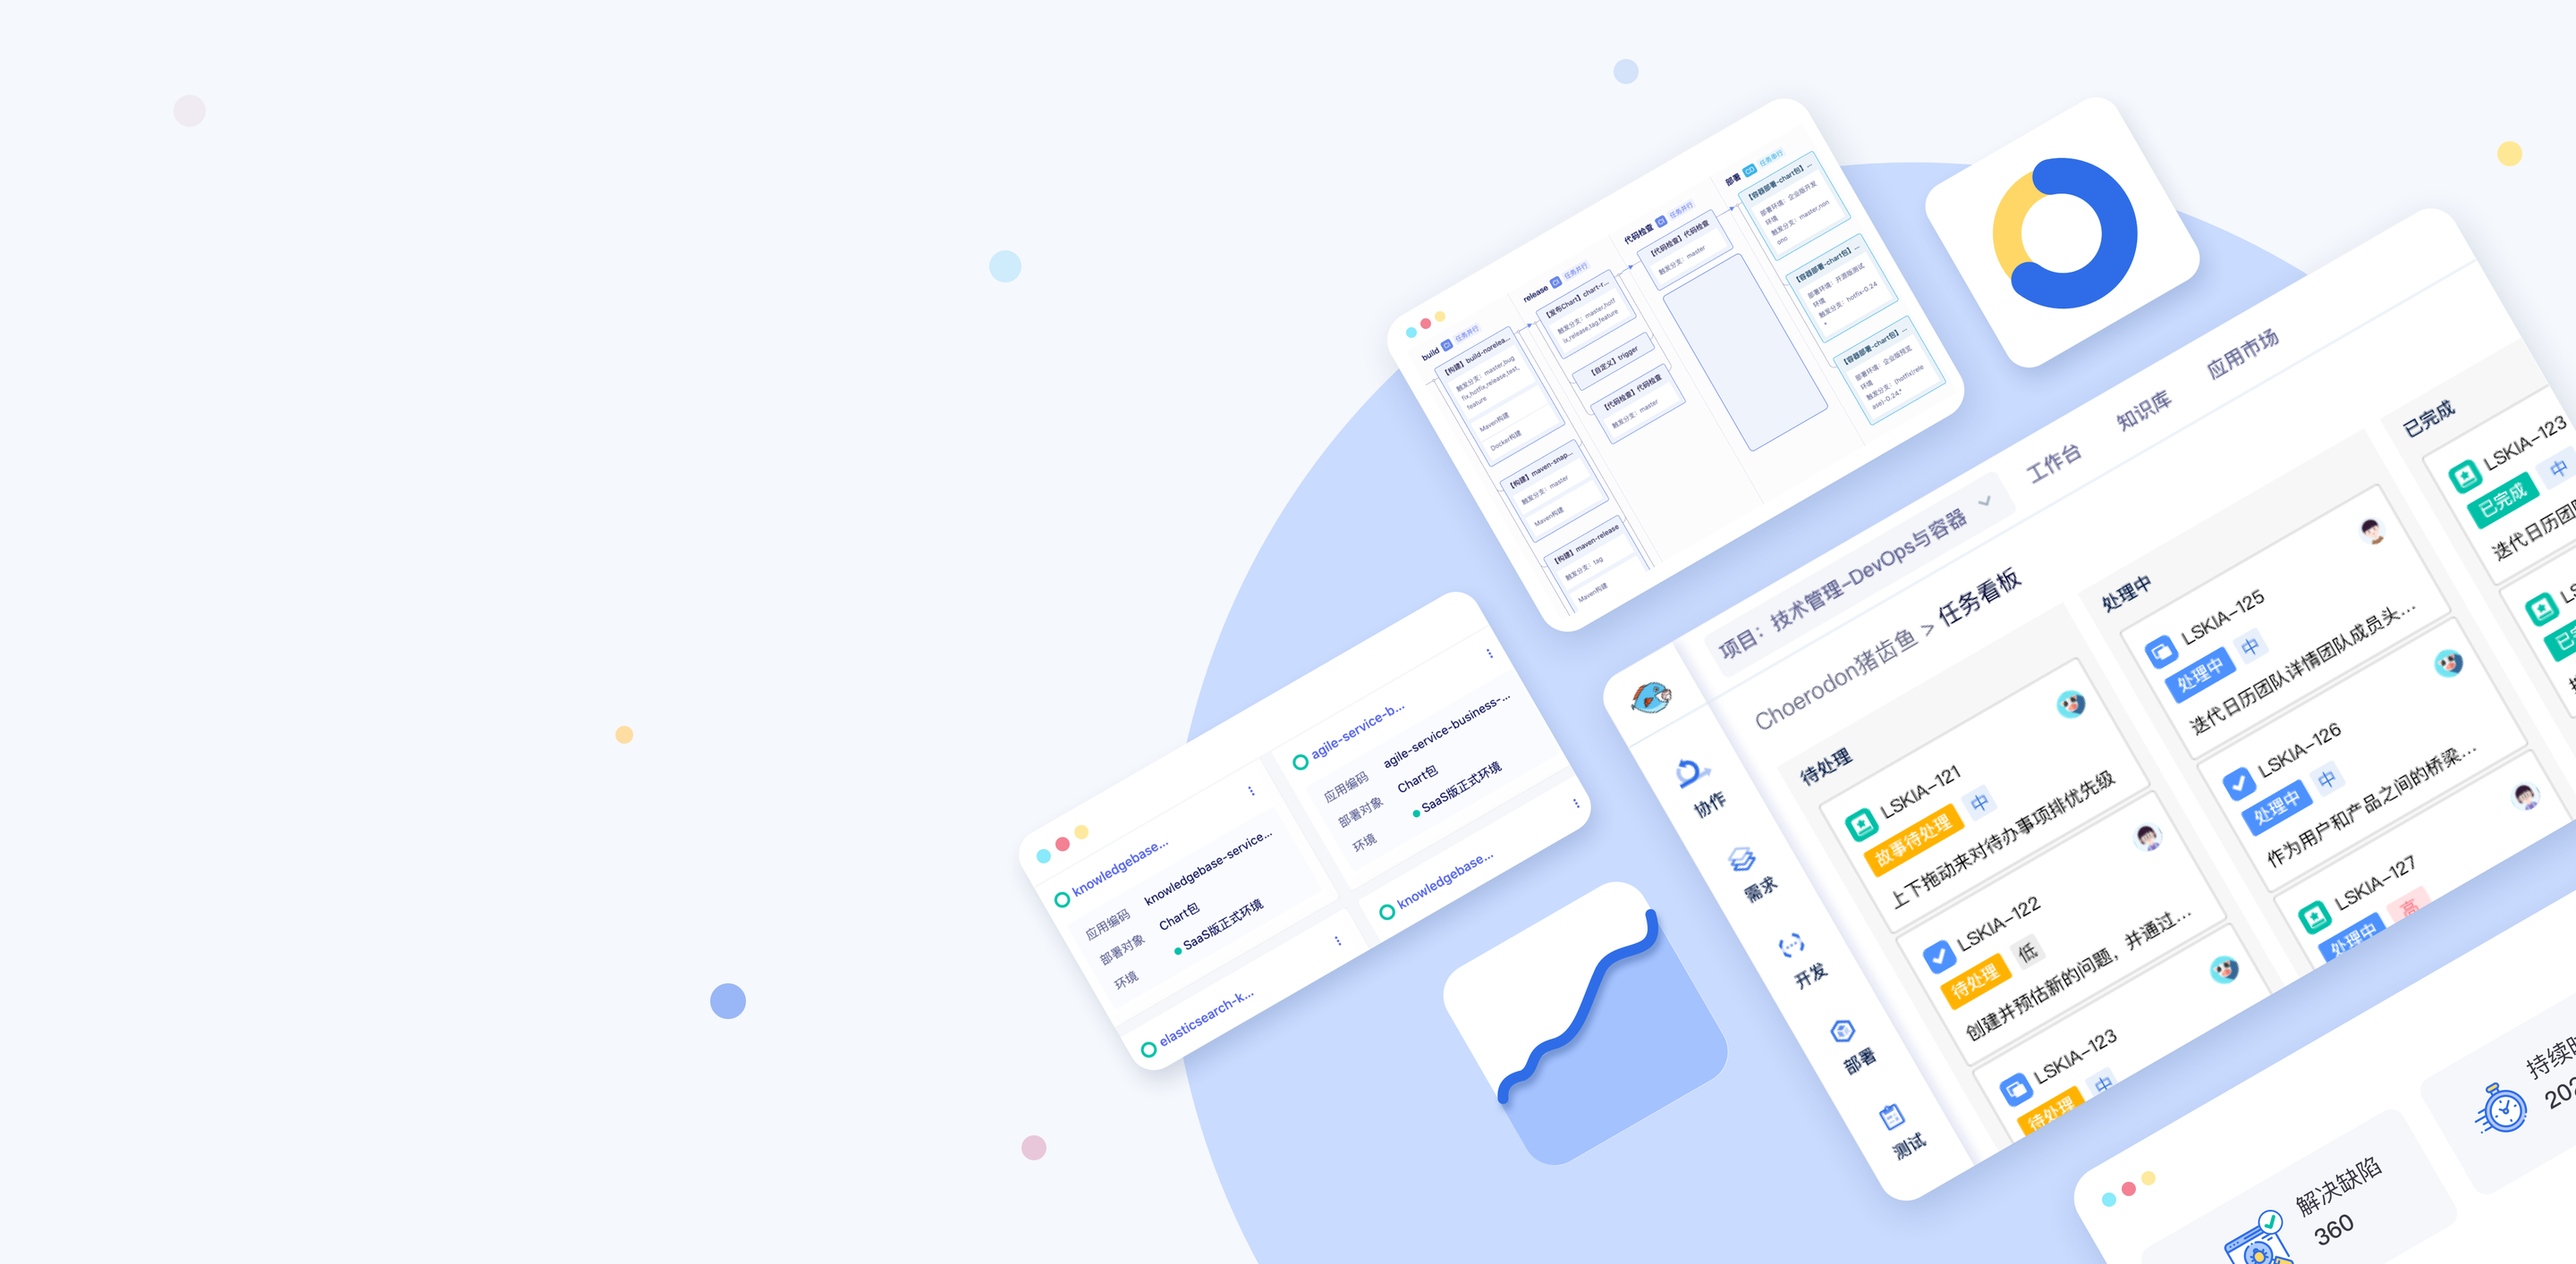
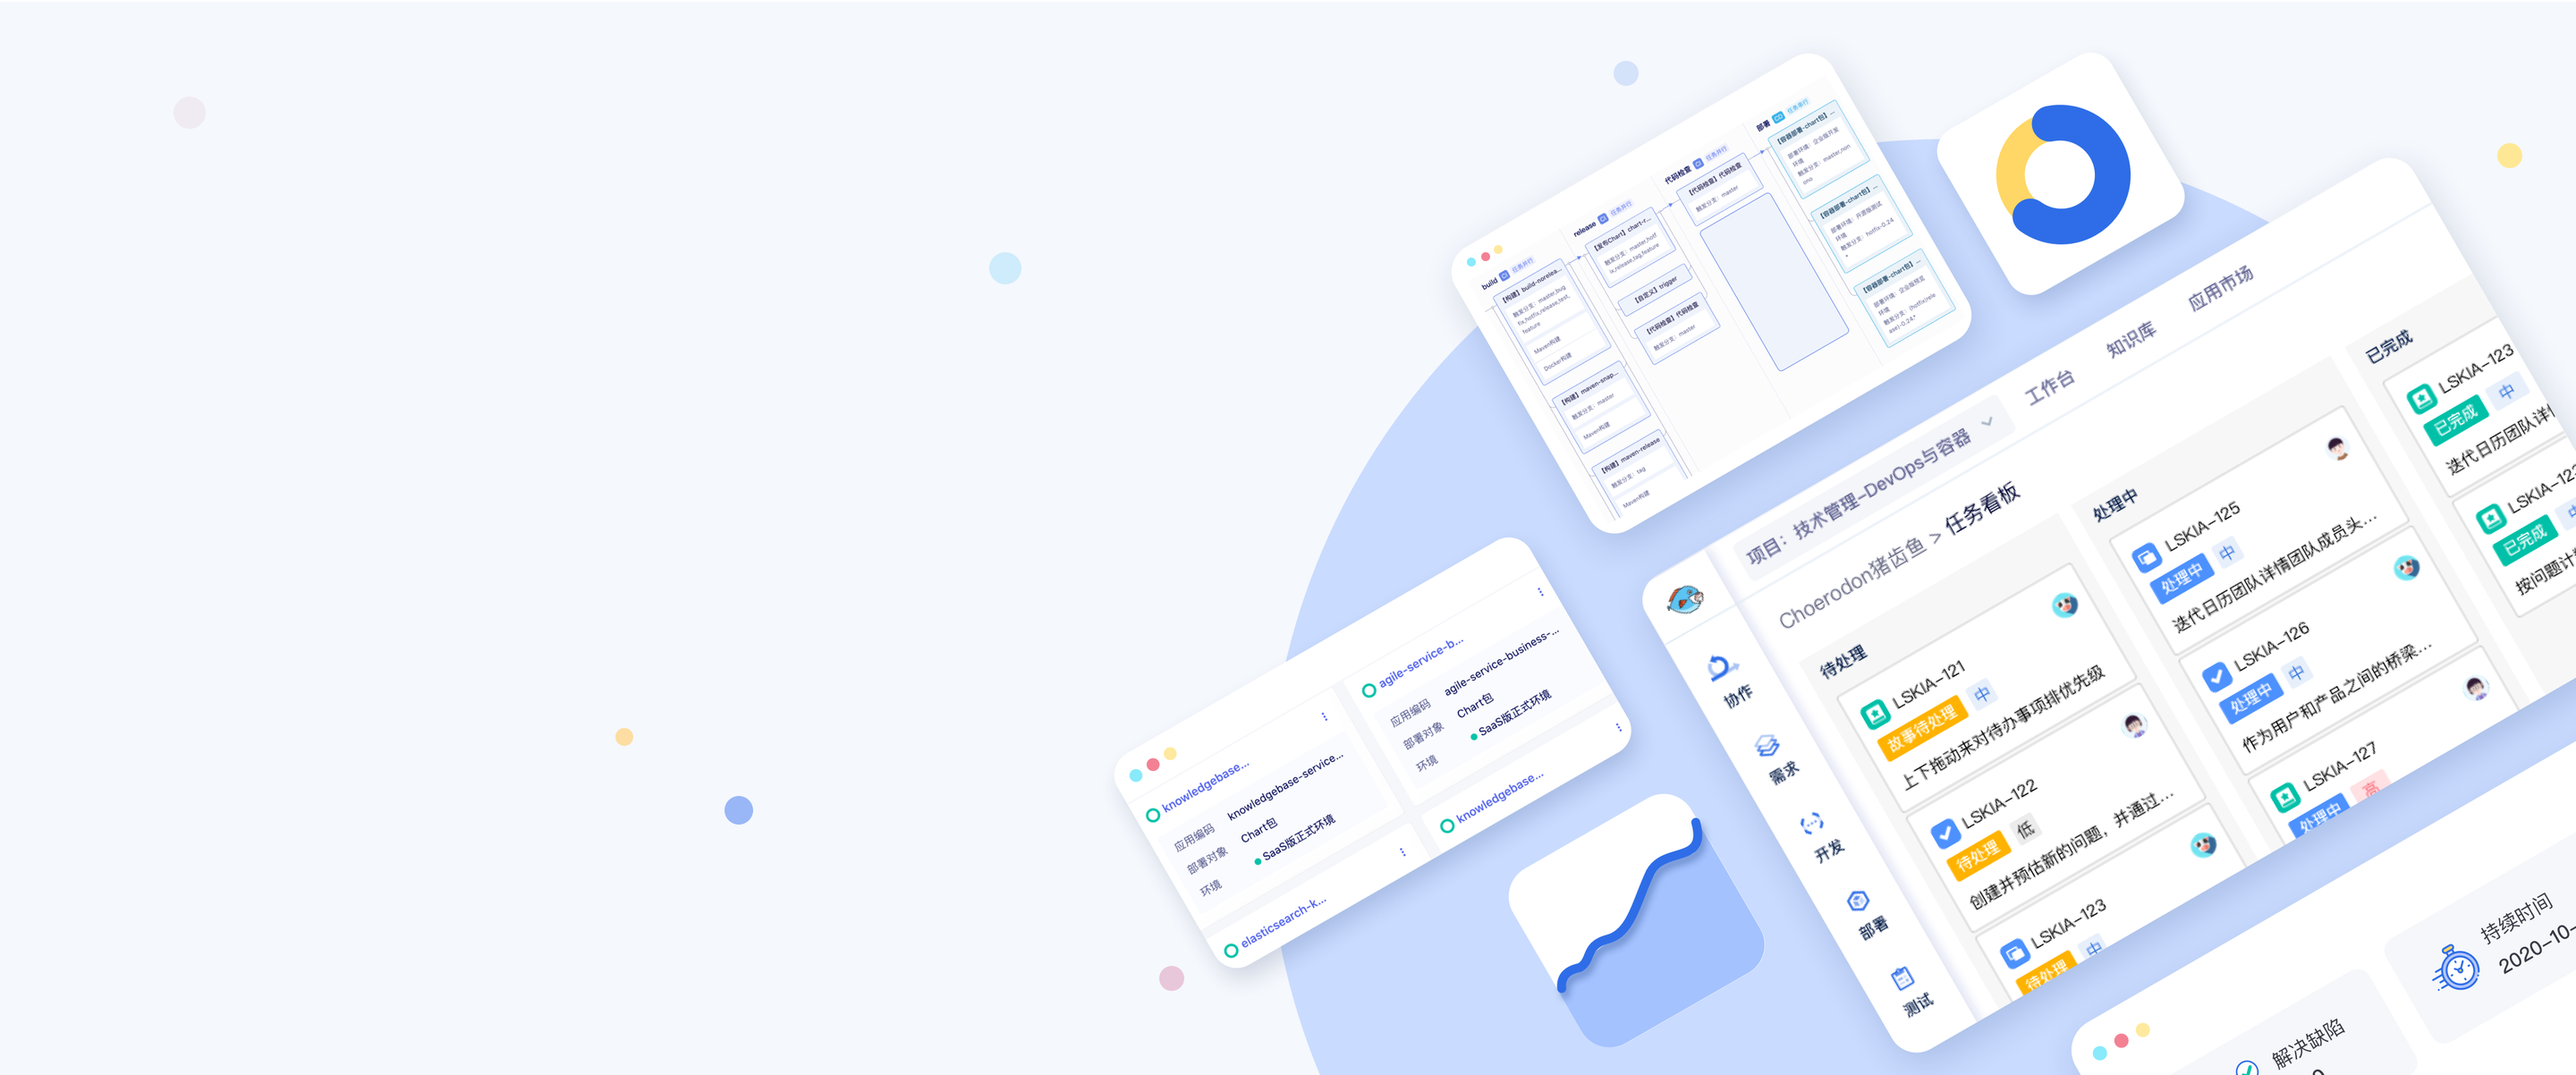
[IMP] 修改首页头图大小

diff --git a/themes/choerodon-document-theme/static/css/carousels.css b/themes/choerodon-document-theme/static/css/carousels.css
@@ -1,10 +1,10 @@
 /* carousel.html */
 .carousels-section {
-  padding-top: 1.79rem;
+  padding-top: 1.46rem;
   background: url(../img/home/carousels/banner.png) no-repeat;
   margin-top: .7rem;
   background-size: 100% 100%;
-  height: 7.07rem;
+  height: 6rem;
   position: relative;
 }
 .carousels-section .carousel-box-flex{
